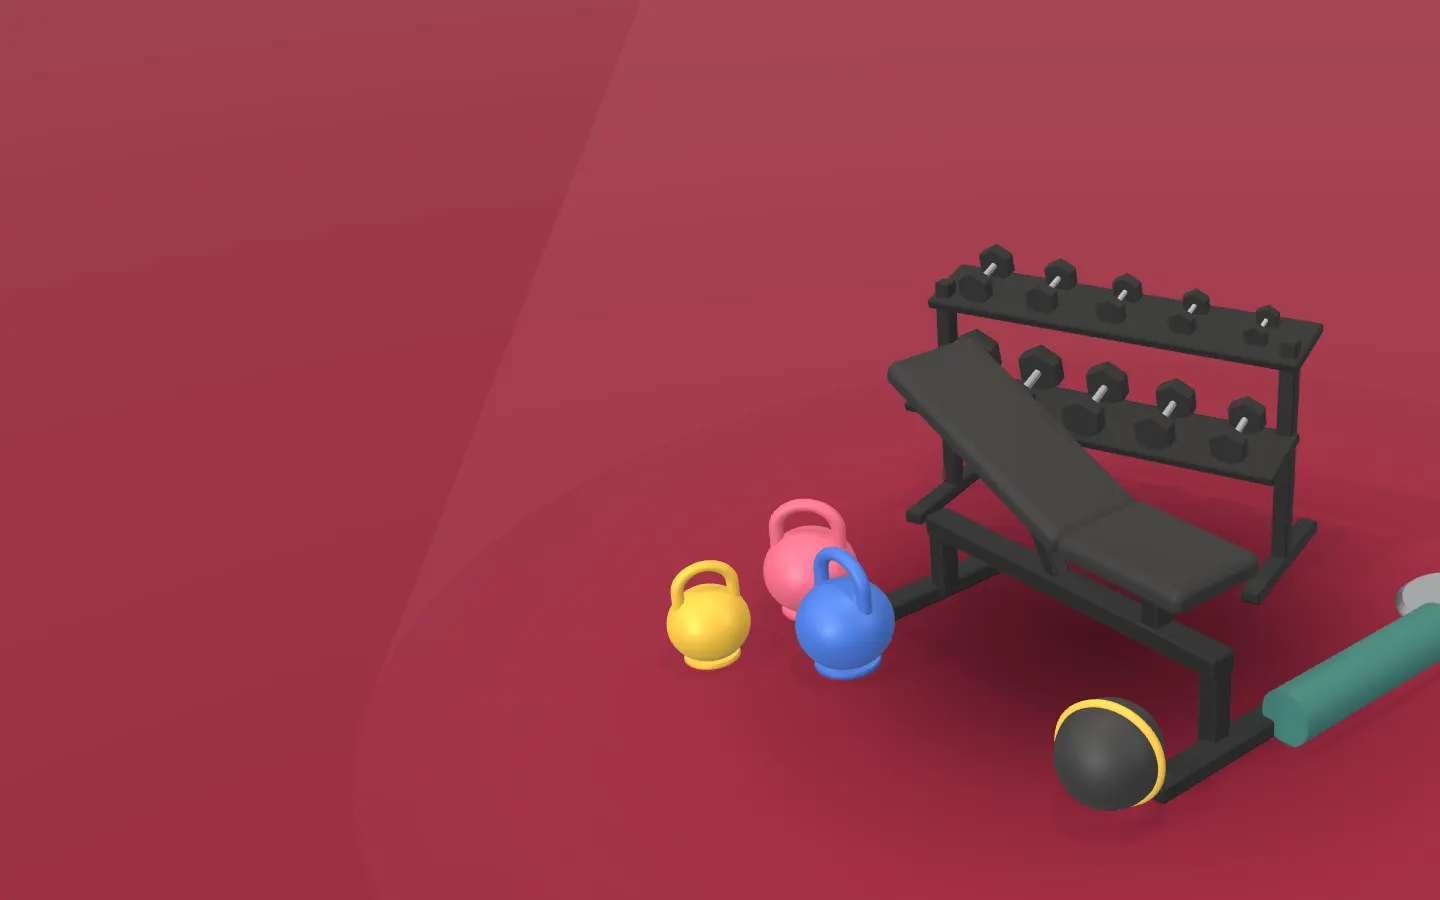
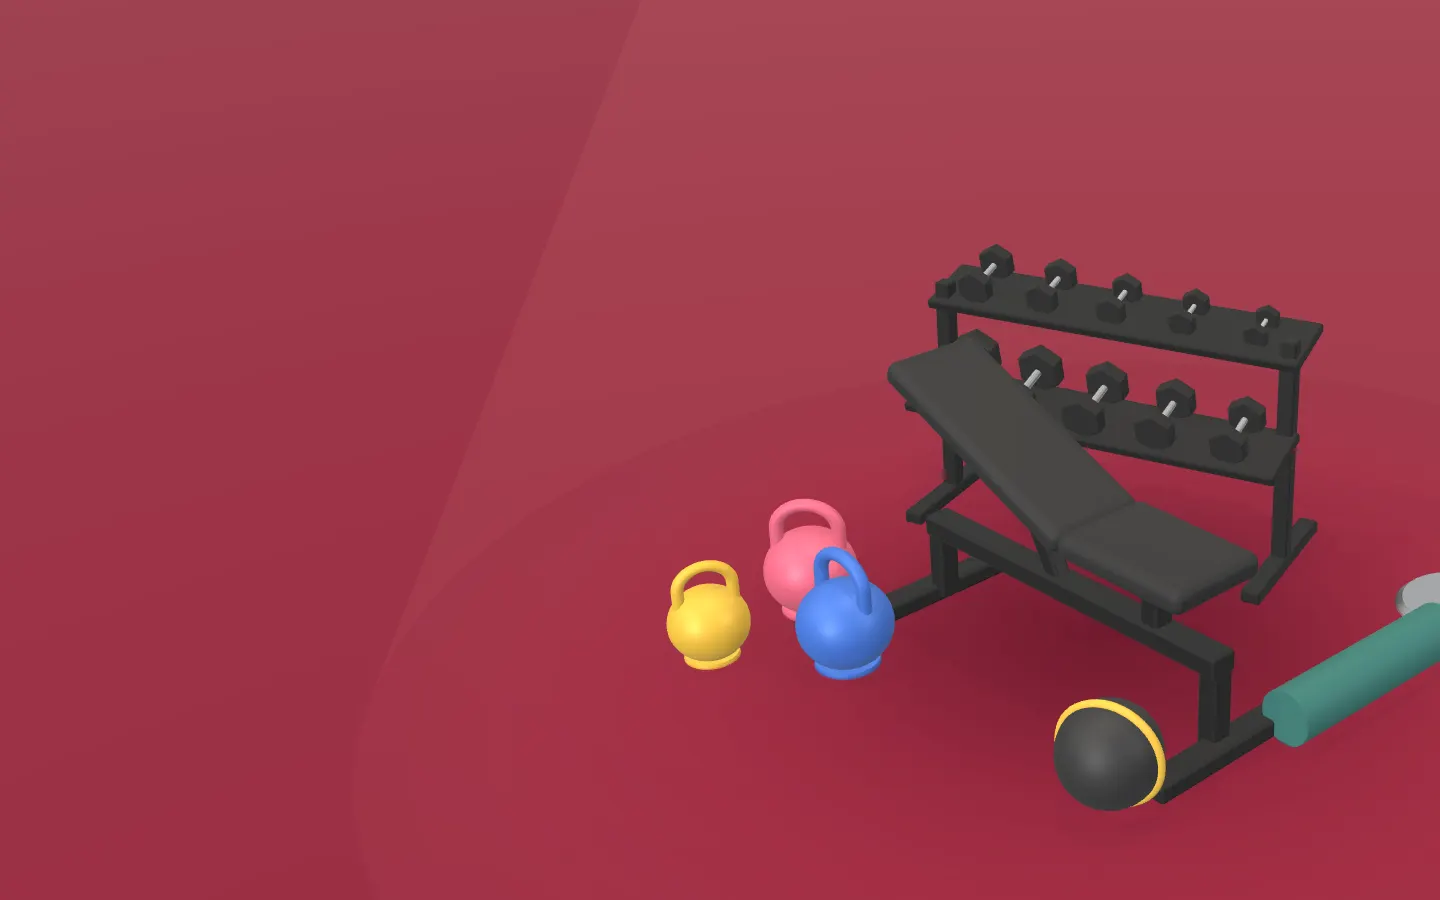
Pine palette everywhere: sage-grey grounds instead of sand (page, sections, 3D room), pine hover on back-to-top; softer shadows under the objects; stills regenerated

Changed region(s): [[0.625, 0.6222, 0.9062, 0.84], [0.75, 0.6222, 0.7812, 0.6533]]

diff --git a/src/styles/sections.css b/src/styles/sections.css
@@ -395,7 +395,7 @@
 .sv {
   position: relative;
   overflow: hidden;
-  background: #efebe3;
+  background: #e8ece5;
   padding-block: clamp(56px, 7vw, 88px);
 }
 .sv__head {
@@ -767,7 +767,7 @@
   --eg: #a5370a;
   --sa: #0b5a3e;
   --sea: #2f7fa3;
-  background: #efebe3;
+  background: #e8ece5;
 }
 .mk__head h2 {
   margin-top: 10px;
@@ -946,7 +946,7 @@
 .pl {
   position: relative;
   overflow: hidden;
-  background: #efebe3; /* same ground as the markets section, so the two run together */
+  background: #e8ece5; /* same ground as the markets section, so the two run together */
 }
 /* soft colour pools drawn as radial gradients (no blur filter, so no clipped edges),
    kept clear of the section's top and bottom so nothing stops abruptly */
@@ -1034,7 +1034,7 @@
 .pl__card.is-main {
   padding-block: 40px;
   background: rgba(10, 25, 22, 0.86);
-  color: #f4f1ea;
+  color: #eef1eb;
   border-color: rgba(255, 255, 255, 0.15);
 }
 .pl__card h3 {
@@ -1120,7 +1120,7 @@
 /* clients: a cork board of polaroids (each the client's system scene from the tour),
    pinned and tied to IGMA in the middle with red string */
 .cl {
-  background: #efebe3;
+  background: #e8ece5;
 }
 .cl__board {
   position: relative;
@@ -1261,7 +1261,7 @@
 /* ========== DEMO ========== */
 /* demo: book a slot. Day and time on one panel, the visitor's details and the suggested slot on the other */
 .demo {
-  background: #e4dfd5;
+  background: #dfe4db;
   color: var(--ink);
   padding-block: clamp(72px, 10vw, 128px);
 }
@@ -1273,7 +1273,7 @@
 }
 /* demo, smart line: one big box with a slowly turning gradient frame; tags show what was understood */
 .sm {
-  background: radial-gradient(70% 60% at 50% 0%, #ffffff, #e4dfd5);
+  background: radial-gradient(70% 60% at 50% 0%, #ffffff, #dfe4db);
   text-align: center;
 }
 .sm__head h2 {

diff --git a/src/three/Showroom.tsx b/src/three/Showroom.tsx
@@ -49,7 +49,7 @@ THREE.DefaultLoadingManager.onProgress = (_url, loaded, total) => {
 MODEL_FILES.forEach((f) => useGLTF.preload(url(f)))
 
 /** Background colour per stop: sand for the overview, then each system's colour. */
-const SAND = new THREE.Color('#C6C0B2')
+const SAND = new THREE.Color('#c3cac0')
 const STOP_COLORS = [SAND, ...tourStops.map((s) => new THREE.Color(s.color))]
 
 /* ---------- one shader for (nearly) everything ----------
@@ -259,6 +259,7 @@ function useLamp(scenes: Record<string, THREE.Object3D>) {
     spot.shadow.mapSize.set(2048, 2048)
     spot.shadow.bias = -0.0003
     spot.shadow.normalBias = 0.03
+    spot.shadow.intensity = 0.5 // softer shadows under the objects
     return { rig, beam, spot, bottom, bulbMat }
   }, [scenes])
 }
@@ -498,9 +499,9 @@ const SHADOW_TEX = (() => {
   c.width = c.height = 256
   const x = c.getContext('2d')!
   const g = x.createRadialGradient(128, 128, 0, 128, 128, 128)
-  g.addColorStop(0, 'rgba(0,0,0,.55)')
-  g.addColorStop(0.35, 'rgba(0,0,0,.38)')
-  g.addColorStop(0.7, 'rgba(0,0,0,.1)')
+  g.addColorStop(0, 'rgba(0,0,0,.26)')
+  g.addColorStop(0.35, 'rgba(0,0,0,.17)')
+  g.addColorStop(0.7, 'rgba(0,0,0,.05)')
   g.addColorStop(1, 'rgba(0,0,0,0)')
   x.fillStyle = g
   x.fillRect(0, 0, 256, 256)
@@ -738,6 +739,7 @@ export default function Showroom({ reduced, mobile, fixedStop, interactive = fal
         shadow-mapSize={[mobile ? 1024 : 2048, mobile ? 1024 : 2048]}
         shadow-bias={-0.0004}
         shadow-normalBias={0.03}
+        shadow-intensity={0.5}
         shadow-camera-left={-12}
         shadow-camera-right={12}
         shadow-camera-top={12}

diff --git a/src/styles/base.css b/src/styles/base.css
@@ -204,7 +204,7 @@ h3 {
 /* ---------- scrollbar: thin, widens on hover; takes the colour of the system on screen in the tour ---------- */
 :root {
   --sb: #1a5a4f;
-  scrollbar-color: var(--sb) color-mix(in srgb, var(--sb) 14%, #efebe3);
+  scrollbar-color: var(--sb) color-mix(in srgb, var(--sb) 14%, #e8ece5);
   scrollbar-width: thin;
 }
 ::-webkit-scrollbar {
@@ -212,7 +212,7 @@ h3 {
   height: 14px;
 }
 ::-webkit-scrollbar-track {
-  background: color-mix(in srgb, var(--sb) 12%, #efebe3);
+  background: color-mix(in srgb, var(--sb) 12%, #e8ece5);
   border-inline-start: 1px solid color-mix(in srgb, var(--sb) 22%, transparent);
 }
 ::-webkit-scrollbar-thumb {
@@ -309,7 +309,7 @@ h3 {
   stroke-linejoin: round;
 }
 .totop:hover .totop__box {
-  background: linear-gradient(160deg, #d69a45, #c98a2e 60%, #a8701f);
+  background: linear-gradient(160deg, #23705f, #1a5a4f 60%, #134a41);
 }
 .totop:hover .totop__fill {
   stroke: #f2b25c;

diff --git a/src/components/Tour.tsx b/src/components/Tour.tsx
@@ -25,7 +25,7 @@ const smooth = (v: number) => {
   const c = clamp(v, 0, 1)
   return c * c * (3 - 2 * c)
 }
-const SAND = '#C6C0B2'
+const SAND = '#c3cac0'
 const fillFrom = (e: React.PointerEvent<HTMLElement>) => {
   const r = e.currentTarget.getBoundingClientRect()
   e.currentTarget.style.setProperty('--fx', `${e.clientX - r.left}px`)

diff --git a/src/styles/tokens.css b/src/styles/tokens.css
@@ -3,8 +3,8 @@
   Design tokens. Chapter colours live with each system in content/site.ts.
 */
 :root {
-  --sand: #d9d5cb;
-  --sand-2: #cac5b9;
+  --sand: #d5dbd2;
+  --sand-2: #c3cbc1;
   --ink: #0a1916;
   --ink-2: #3b4945;
   --green: #08583f;

diff --git a/src/styles/tour.css b/src/styles/tour.css
@@ -14,7 +14,7 @@ html.is-locked body {
   position: absolute;
 }
 .tour__pin {
-  --c: #c6c0b2;
+  --c: #c3cac0;
   --fg: var(--on);
   --fg-70: var(--on-70);
   --fg-line: var(--on-line);
